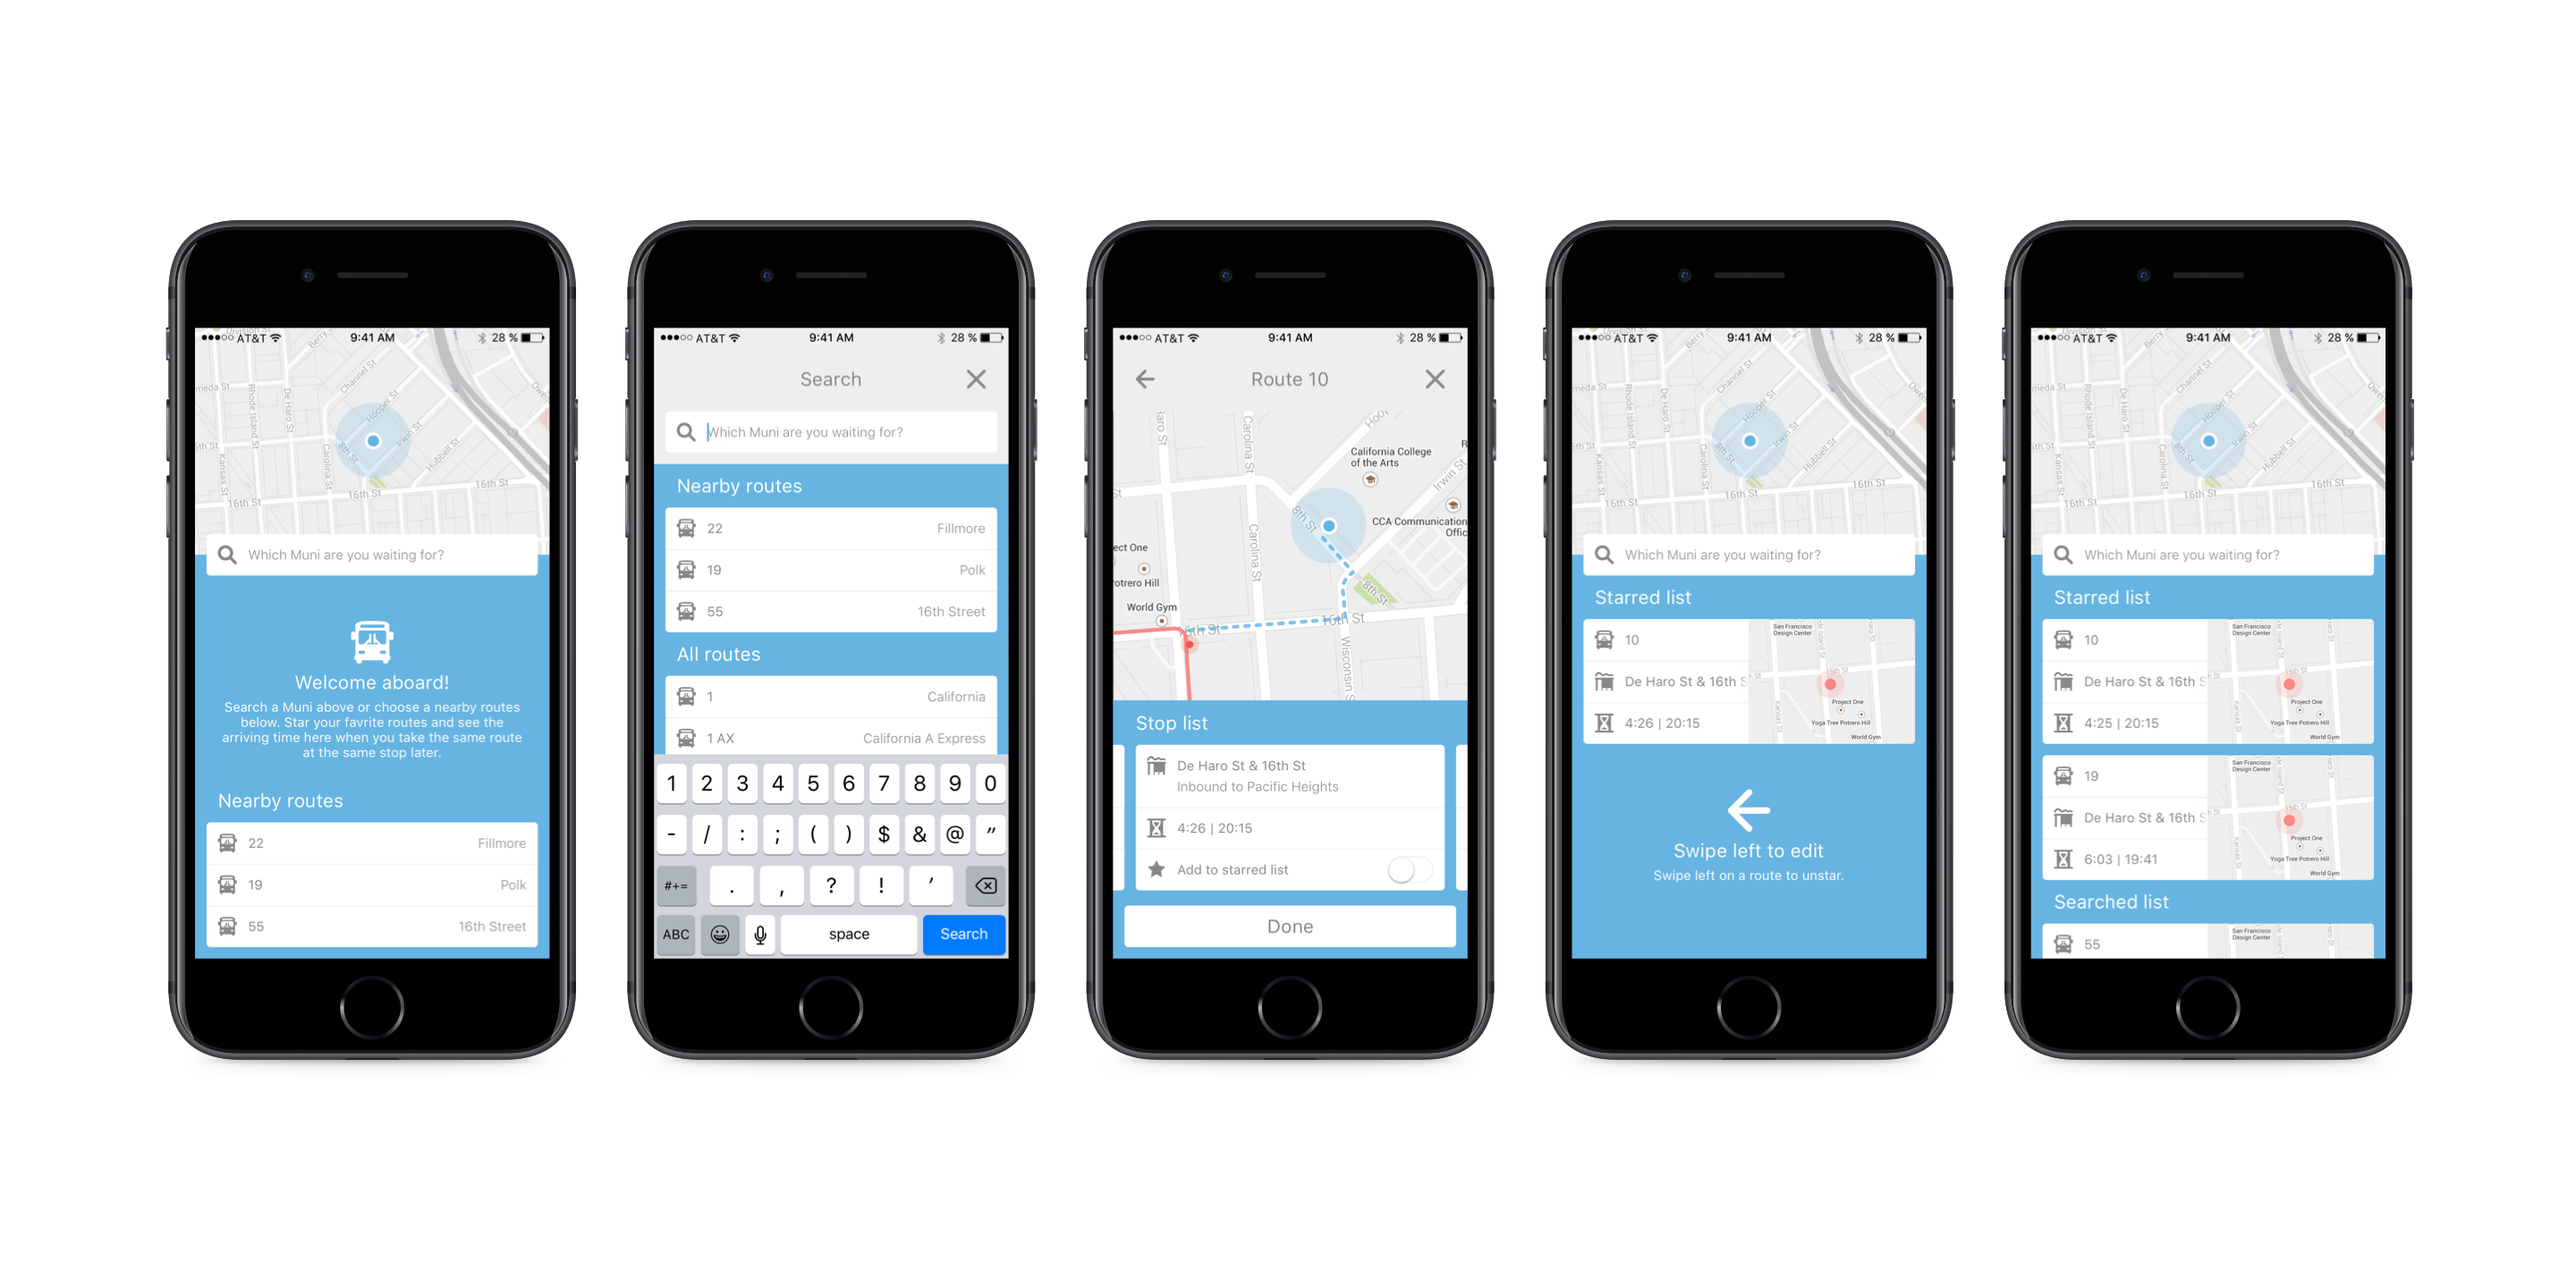
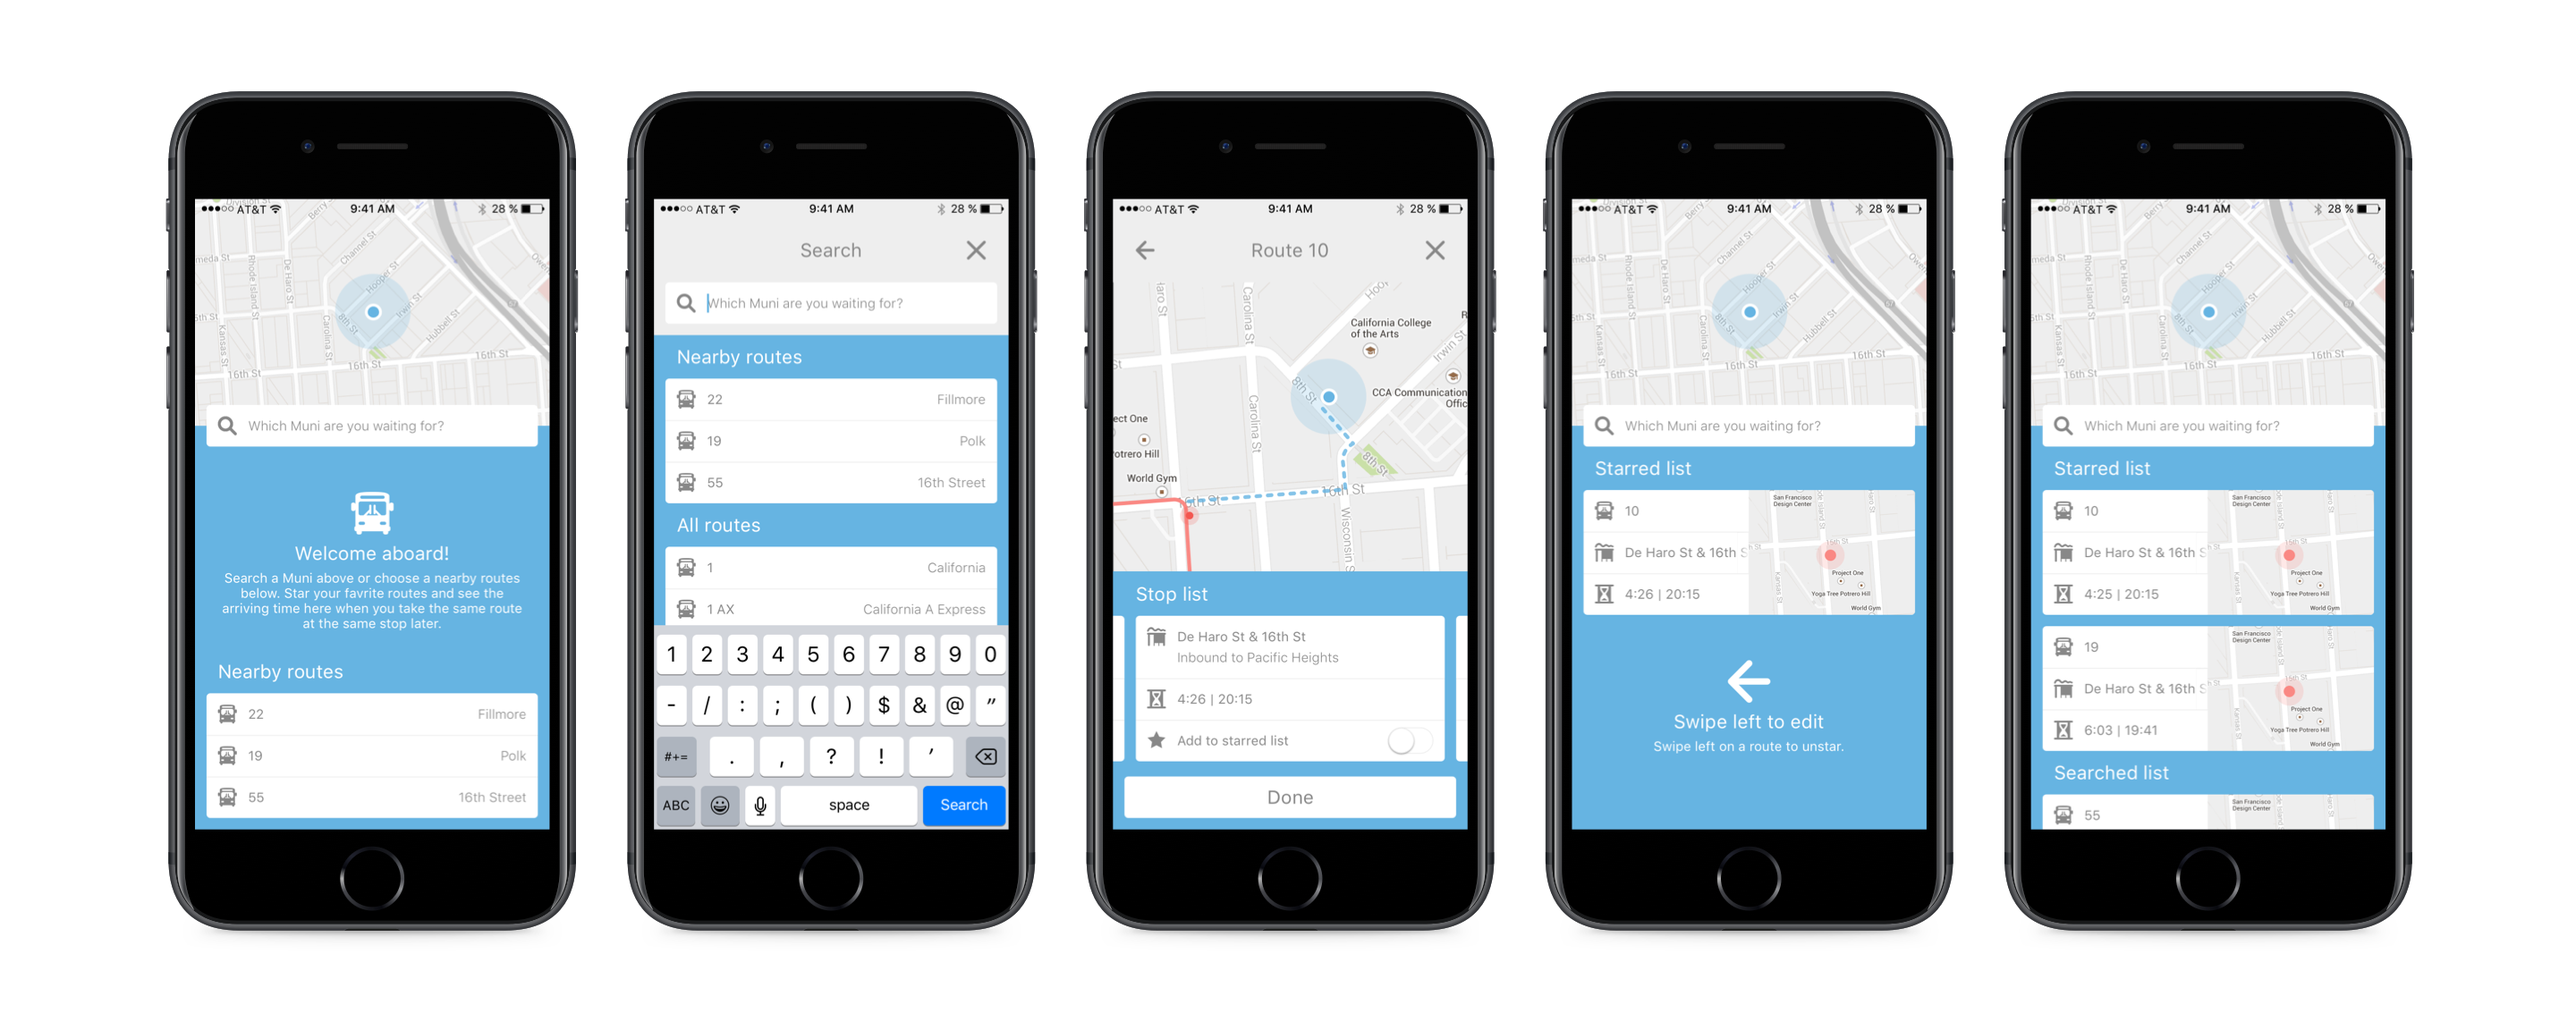
new

diff --git a/work/Next-Muni/index.html b/work/Next-Muni/index.html
@@ -61,7 +61,16 @@ title: Next Muni
   </div>
 
   <section class="project__content">
-    <img class="content__img--no-padding" src="/images/original/portfolio/Next-Muni/stage-1/0-1.png" alt="">
+    
+    <div class="content__framer">
+      <div class="frame">
+        <iframe src="https://player.vimeo.com/video/202888896?title=0&byline=0&portrait=0" width="80%" frameborder="0" webkitallowfullscreen mozallowfullscreen allowfullscreen>
+          <p>Your browser does not support iframes.</p>
+        </iframe>
+      </div>
+    </div>
+
+
     <img class="content__img--no-padding" src="/images/original/portfolio/Next-Muni/stage-1/0-2.png" alt="">
     <img class="content__img--no-padding" src="/images/original/portfolio/Next-Muni/stage-1/0-4.png" alt="">
   </section>
@@ -226,6 +235,7 @@ title: Next Muni
       <p>Another change I made was how people choose previous stop and next stop on the Detail Page. <strong>Comparing with tapping on two buttons, swiping left and right within a larger area is easier for people to navigate.</strong> I also simplified the flow by not showing the map-only screen. Instead of asking people to choose a stop on the map, now the app will show the nearest stop automatically.</p>
     </div>
 
+    <img class="content__img--no-padding" src="/images/original/portfolio/Next-Muni/stage-1/0-1.png" alt="">
     <img class="content__img--no-padding" src="/images/original/portfolio/Next-Muni/stage-1/0-3.png" alt="">
 
     <div class="project__content--with-padding">

diff --git a/css/main.scss b/css/main.scss
@@ -641,7 +641,7 @@ and (max-width: 959px) {
   }
 
   .content__framer {
-    @include ratio(100%, 60%);
+    @include ratio(100%, 63%);
 
     .frame {
       position: absolute;
